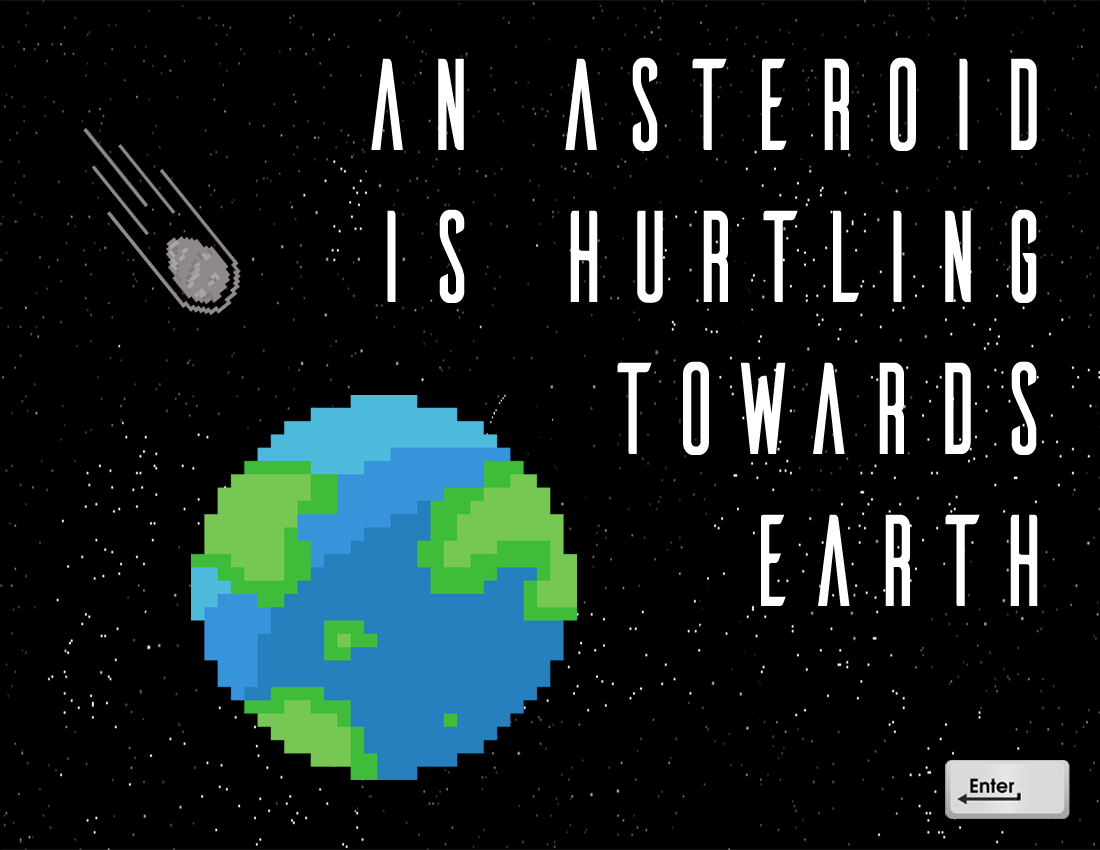
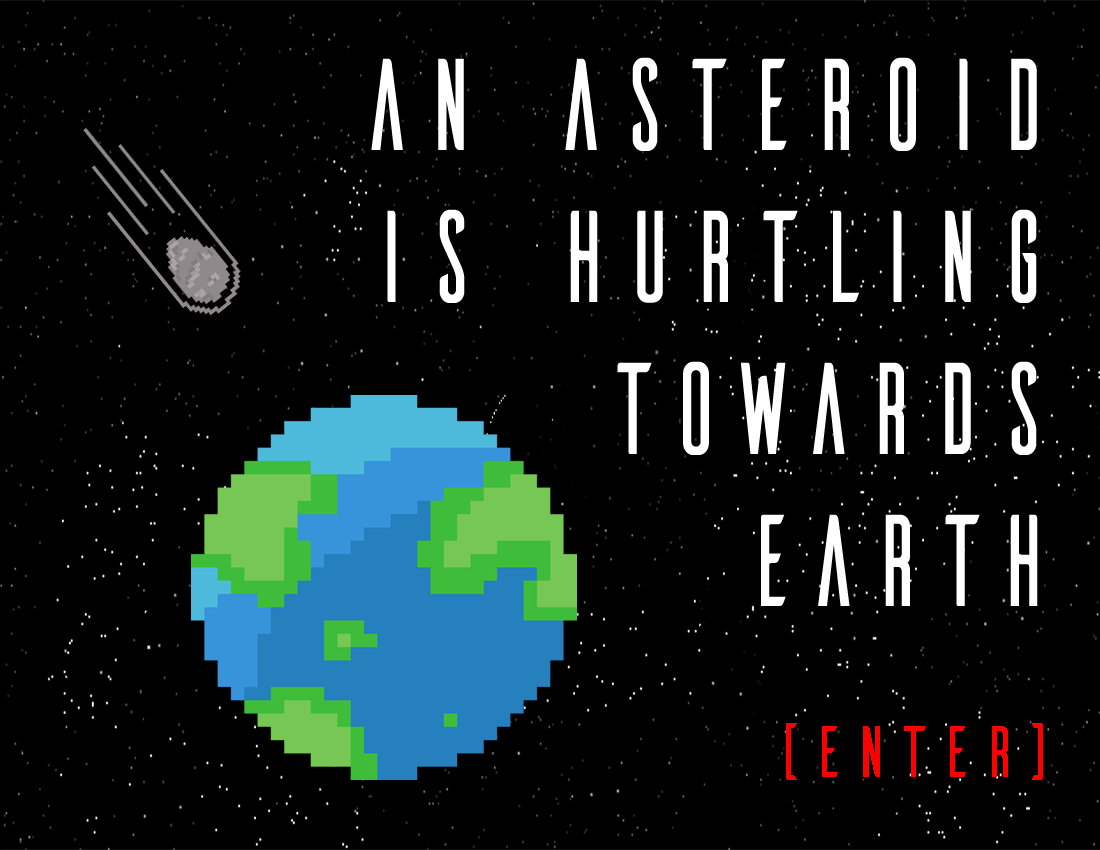
Fixed story state.

Changed region(s): [[0.7109, 0.8565, 0.9891, 0.9788]]

diff --git a/src/StoryState.cpp b/src/StoryState.cpp
@@ -18,9 +18,8 @@ StoryState::StoryState(GameDataRef data) : gameData(data)
     backgroundSprite.setTexture(this->gameData->resourceManager.getTexture("StoryState1 Background"));
 
     this->gameData->resourceManager.loadTexture("StoryState2 Background", STORY_STATE_BACKGROUND_FILEPATH2);
-
-
     this->gameData->resourceManager.loadTexture("StoryState3 Background", STORY_STATE_BACKGROUND_FILEPATH3);
+		this->gameData->resourceManager.loadTexture("StoryState4 Background", STORY_STATE_BACKGROUND_FILEPATH4);
 
 
 
@@ -50,19 +49,26 @@ StoryState::StoryState(GameDataRef data) : gameData(data)
       if (event.type == sf::Event::KeyPressed) {
           if (event.key.code == sf::Keyboard::Return) {
             count = count + 1;
-            if(count > 2){
+            if(count > 3)
+						{
               this -> gameData->stateManager.pushState(StateRef(new GameState(gameData)), true);
             }
-            if (count == 1){
+            if (count == 1)
+						{
               backgroundSprite.setTexture(this->gameData->resourceManager.getTexture("StoryState2 Background"));
 
             }
-            if (count == 2){
+            if (count == 2)
+						{
               backgroundSprite.setTexture(this->gameData->resourceManager.getTexture("StoryState3 Background"));
             }
-            if (count == 3){
-                playTheme.stop();
+            if (count == 3)
+						{
+							backgroundSprite.setTexture(this->gameData->resourceManager.getTexture("StoryState4 Background"));
             }
+						if (count == 4){
+							playTheme.stop();
+						}
           }
         }
 		}

diff --git a/include/Global.hpp b/include/Global.hpp
@@ -11,7 +11,7 @@
 
 // constants
 #define WINDOW_WIDTH 1100
-#define WINDOW_HEIGHT 825
+#define WINDOW_HEIGHT 850
 #define BITS_PER_PIXEL 16
 #define GAME_TITLE "COLLISION"
 
@@ -44,13 +44,14 @@
 #define MENU_STATE_BACKGROUND_FILEPATH "../res/images/menuBackground.png"
 #define WIN_STATE_BACKGROUND_FILEPATH "../res/images/WinBackground.png"
 #define LOSE_STATE_BACKGROUND_FILEPATH "../res/images/loseBackground.png"
-#define CONTROLS_STATE_BACKGROUND_FILEPATH "../res/images/controlBackground.png"
+#define CONTROLS_STATE_BACKGROUND_FILEPATH "../res/images/controlsBackground.png"
 #define PAUSE_STATE_BACKGROUND_FILEPATH "../res/images/pauseBackground.png"
 
 //Story
 #define STORY_STATE_BACKGROUND_FILEPATH1 "../res/images/Story1.png"
 #define STORY_STATE_BACKGROUND_FILEPATH2 "../res/images/Story2.png"
 #define STORY_STATE_BACKGROUND_FILEPATH3 "../res/images/Story3.png"
+#define STORY_STATE_BACKGROUND_FILEPATH4 "../res/images/info.png"
 
 
 //Sprite Sheet
@@ -58,5 +59,6 @@
 
 //Goomba ship
 #define PINK_SHEET_FILEPATH "../res/images/pinkShipSheet400.png"
+#define PINK_SHEET_FILEPATH2 "../res/images/otherPinkShipSheet400.png"
 
 #endif

diff --git a/src/Goomba.cpp b/src/Goomba.cpp
@@ -26,31 +26,23 @@ void Goomba::draw() {
   gameData->window.draw(goomba);
 }
 
-
-void Goomba::animate(float secs) {}
-
-
 sf::Sprite Goomba::getShape() {
   return goomba;
 }
-
 
 void Goomba::moveUp() {
   position.y -= velocity;
   goomba.setTextureRect(sf::IntRect(100,0,50,50));
 }
 
-
 void Goomba::moveDown() {
   position.y += velocity;
   goomba.setTextureRect(sf::IntRect(100,50,50,50));
 }
 
-
 void Goomba::moveLeft() {
   position.x -= velocity;
 }
-
 
 void Goomba::moveRight() {
   position.x += velocity;

diff --git a/include/StoryState.hpp b/include/StoryState.hpp
@@ -34,6 +34,7 @@ class StoryState : public State {
     sf::Sprite backgroundSprite;
     sf::Sprite backgroundSprite2;
     sf::Sprite backgroundSprite3;
+		sf::Sprite backgroundSprite4;
 
 
 	  sf::Font font;

diff --git a/src/Player.cpp b/src/Player.cpp
@@ -28,10 +28,6 @@ void Player::draw()
   gameData->window.draw(ship);
 }
 
-void Player::animate(float secs)
-{
-
-}
 
 // gets bounding box bounds
 //sf::FloatRect Player::getPosition()

diff --git a/include/Player.hpp b/include/Player.hpp
@@ -16,7 +16,6 @@ class Player {
 		~Player();
 
 		void draw();
-		void animate(float secs);
 		sf::Sprite getShape();
 		void moveUp();
 		void moveDown();
